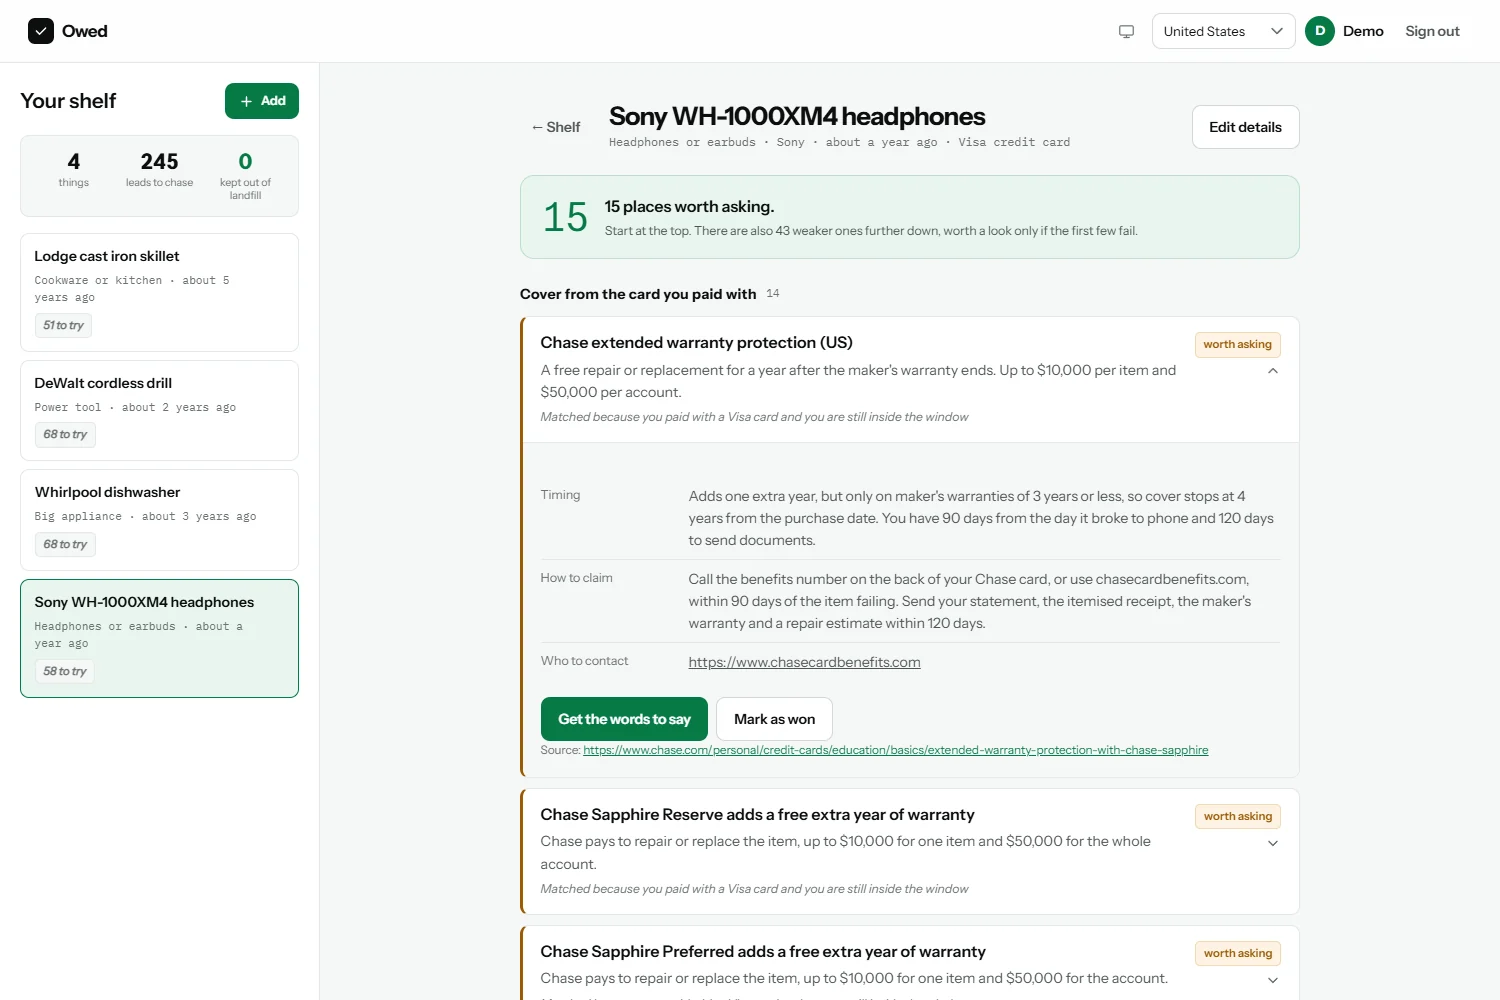
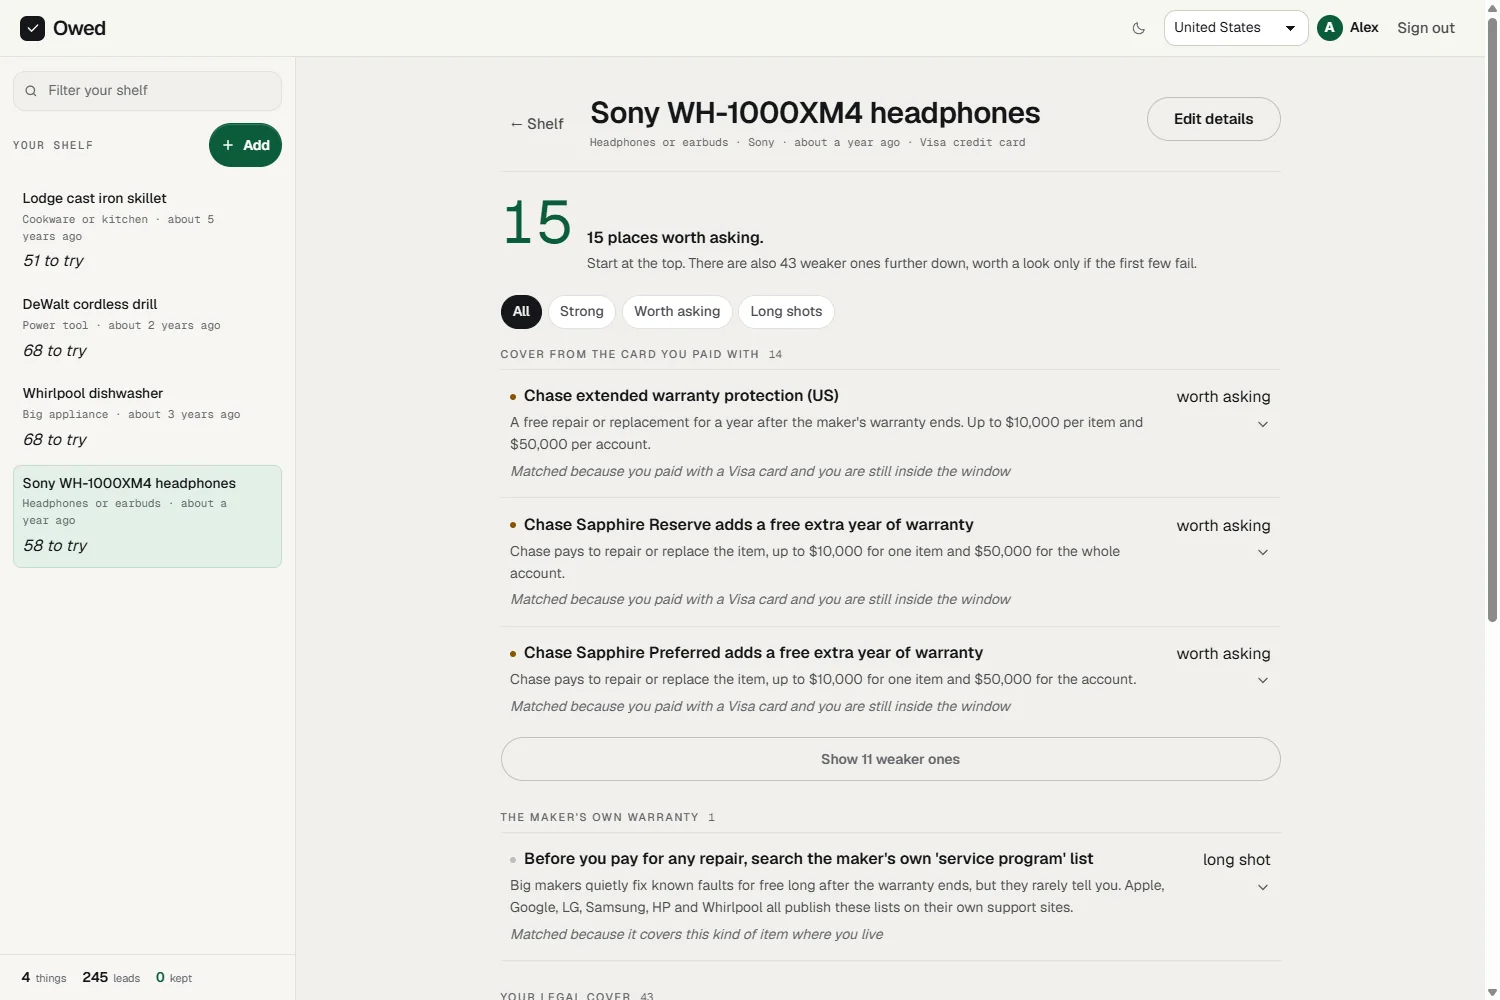
Re-capture the app screenshots; they were showing a UI that no longer exists
Both shots in the product showcase still depicted a boxed three-stat tile
trio at the TOP of the shelf and full-bordered result cards with a left
accent bar. The shelf gained a quiet stats strip at the bottom and the
results became border-top rows several passes ago - app.css still carried
the orphaned .shelf-stats / .stat rules, which is what gave it away. A stale
screenshot in the one section whose whole job is showing the product is the
loudest "nobody looked at this" tell on the page.

Re-captured both from the running app at 1500x1000 with the Sony headphones
selected and the card-benefit group first, which is what the figcaption
describes. 80KB -> 69KB and 81KB -> 68KB.

Also: the showcase rebuild had dropped the ?v= cache-buster from the two
image srcs, so the new files were masked by the stale cached ones - the
first re-capture appeared to do nothing. Restored.

Removed the .shelf-stats / .stat b / .stat span rules orphaned by the shelf
redesign.

Verified: both shots load at 1500x1000, the theme swap picks the right one
in each theme, and the app itself still renders 4 shelf items with the foot
strip intact.

diff --git a/index.html b/index.html
@@ -9,10 +9,10 @@
 <link rel="preconnect" href="https://fonts.googleapis.com">
 <link rel="preconnect" href="https://fonts.gstatic.com" crossorigin>
 <link rel="stylesheet" href="https://fonts.googleapis.com/css2?family=Geist:wght@400;500;600;700&family=Geist+Mono:wght@400;500&family=Instrument+Serif:ital@1&display=swap">
-<link rel="stylesheet" href="assets/css/base.css?v=1788300776">
-<link rel="stylesheet" href="assets/css/landing.css?v=1788300776">
-<link rel="stylesheet" href="assets/css/motion.css?v=1788300776">
-<script src="assets/js/theme.js?v=1788300776"></script>
+<link rel="stylesheet" href="assets/css/base.css?v=1788301200">
+<link rel="stylesheet" href="assets/css/landing.css?v=1788301200">
+<link rel="stylesheet" href="assets/css/motion.css?v=1788301200">
+<script src="assets/js/theme.js?v=1788301200"></script>
 </head>
 <body>
 <!-- ============ spot illustrations ============
@@ -289,9 +289,9 @@
       </div>
 
       <figure class="sc-shot">
-        <img class="shot-light" src="assets/img/app-shot.webp" width="1500" height="1000"
+        <img class="shot-light" src="assets/img/app-shot.webp?v=1788301200" width="1500" height="1000"
              alt="" loading="lazy" decoding="async">
-        <img class="shot-dark" src="assets/img/app-shot-dark.webp" width="1500" height="1000"
+        <img class="shot-dark" src="assets/img/app-shot-dark.webp?v=1788301200" width="1500" height="1000"
              alt="" loading="lazy" decoding="async">
         <figcaption class="sr-only">The Owed app: a pair of Sony headphones matched to credit-card extended warranties, each labelled worth asking.</figcaption>
       </figure>
@@ -765,11 +765,11 @@
   </div>
 </footer>
 
-<script src="assets/js/catalog.js?v=1788300776"></script>
-<script src="assets/js/landing.js?v=1788300776"></script>
-<script src="assets/js/scroll.js?v=1788300776"></script>
-<script src="assets/js/scene.js?v=1788300776"></script>
-<script src="assets/js/godray.js?v=1788300776"></script>
-<script src="assets/js/motion.js?v=1788300776"></script>
+<script src="assets/js/catalog.js?v=1788301200"></script>
+<script src="assets/js/landing.js?v=1788301200"></script>
+<script src="assets/js/scroll.js?v=1788301200"></script>
+<script src="assets/js/scene.js?v=1788301200"></script>
+<script src="assets/js/godray.js?v=1788301200"></script>
+<script src="assets/js/motion.js?v=1788301200"></script>
 </body>
 </html>

diff --git a/app.html b/app.html
@@ -10,10 +10,10 @@
 <link rel="preconnect" href="https://fonts.googleapis.com">
 <link rel="preconnect" href="https://fonts.gstatic.com" crossorigin>
 <link rel="stylesheet" href="https://fonts.googleapis.com/css2?family=Geist:wght@400;500;600;700&family=Geist+Mono:wght@400;500&family=Instrument+Serif:ital@1&display=swap">
-<link rel="stylesheet" href="assets/css/base.css?v=1788300776">
-<link rel="stylesheet" href="assets/css/motion.css?v=1788300776">
-<link rel="stylesheet" href="assets/css/app.css?v=1788300776">
-<script src="assets/js/theme.js?v=1788300776"></script>
+<link rel="stylesheet" href="assets/css/base.css?v=1788301200">
+<link rel="stylesheet" href="assets/css/motion.css?v=1788301200">
+<link rel="stylesheet" href="assets/css/app.css?v=1788301200">
+<script src="assets/js/theme.js?v=1788301200"></script>
 </head>
 <body class="app-body">
 <a class="skip-link" href="#appMain">Skip to content</a>
@@ -191,10 +191,10 @@
 
 <div class="toast" id="toast" role="status" aria-live="polite"></div>
 
-<script src="assets/js/catalog.js?v=1788300776"></script>
-<script src="assets/js/store.js?v=1788300776"></script>
-<script src="assets/js/engine.js?v=1788300776"></script>
-<script src="assets/js/app.js?v=1788300776"></script>
-<script src="assets/js/motion.js?v=1788300776"></script>
+<script src="assets/js/catalog.js?v=1788301200"></script>
+<script src="assets/js/store.js?v=1788301200"></script>
+<script src="assets/js/engine.js?v=1788301200"></script>
+<script src="assets/js/app.js?v=1788301200"></script>
+<script src="assets/js/motion.js?v=1788301200"></script>
 </body>
 </html>

diff --git a/auth.html b/auth.html
@@ -10,10 +10,10 @@
 <link rel="preconnect" href="https://fonts.googleapis.com">
 <link rel="preconnect" href="https://fonts.gstatic.com" crossorigin>
 <link rel="stylesheet" href="https://fonts.googleapis.com/css2?family=Geist:wght@400;500;600;700&family=Geist+Mono:wght@400;500&family=Instrument+Serif:ital@1&display=swap">
-<link rel="stylesheet" href="assets/css/base.css?v=1788300776">
-<link rel="stylesheet" href="assets/css/motion.css?v=1788300776">
-<link rel="stylesheet" href="assets/css/auth.css?v=1788300776">
-<script src="assets/js/theme.js?v=1788300776"></script>
+<link rel="stylesheet" href="assets/css/base.css?v=1788301200">
+<link rel="stylesheet" href="assets/css/motion.css?v=1788301200">
+<link rel="stylesheet" href="assets/css/auth.css?v=1788301200">
+<script src="assets/js/theme.js?v=1788301200"></script>
 </head>
 <body class="auth-body">
 
@@ -120,8 +120,8 @@
   </aside>
 </main>
 
-<script src="assets/js/store.js?v=1788300776"></script>
-<script src="assets/js/auth.js?v=1788300776"></script>
-<script src="assets/js/motion.js?v=1788300776"></script>
+<script src="assets/js/store.js?v=1788301200"></script>
+<script src="assets/js/auth.js?v=1788301200"></script>
+<script src="assets/js/motion.js?v=1788301200"></script>
 </body>
 </html>

diff --git a/assets/css/app.css b/assets/css/app.css
@@ -366,9 +366,6 @@
   .user-chip { display: none; }
   #signOutBtn { padding: .45rem .5rem; font-size: var(--step--1); }
   .shelf { padding: 1rem .85rem; }
-  .shelf-stats { padding: .7rem .5rem; }
-  .stat b { font-size: 1.15rem; }
-  .stat span { font-size: var(--step--2); }
   .panel { padding: 1.1rem .85rem 2rem; }
 }
 @media (prefers-reduced-motion: reduce) {
